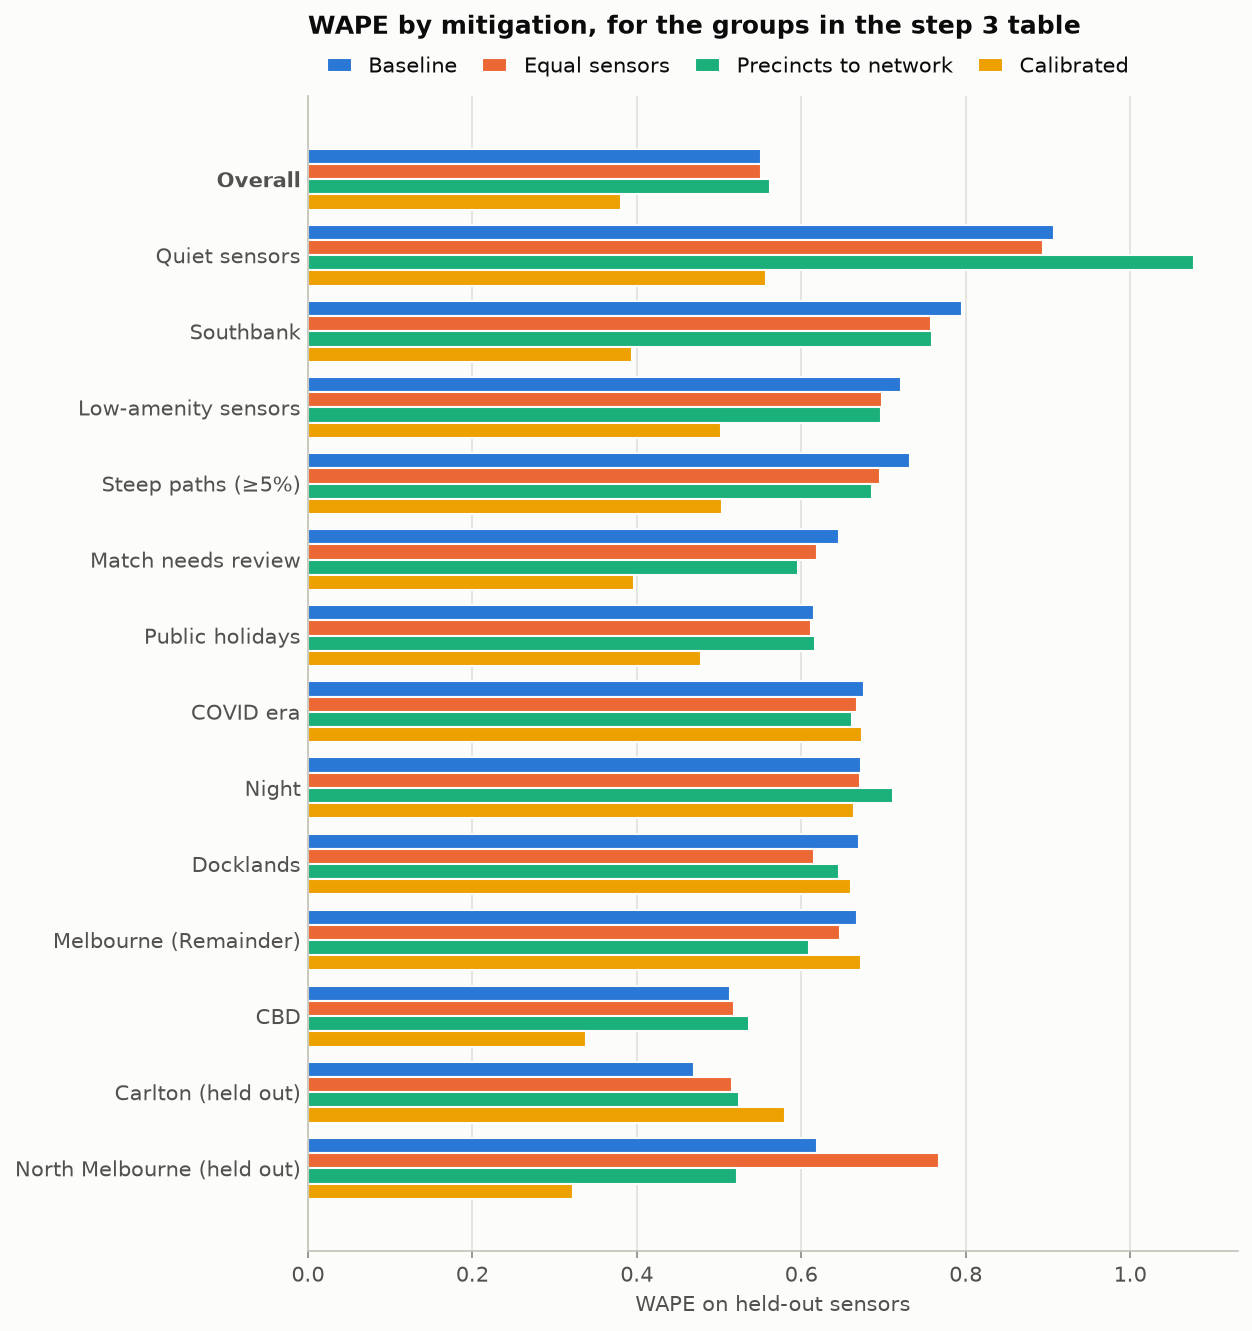
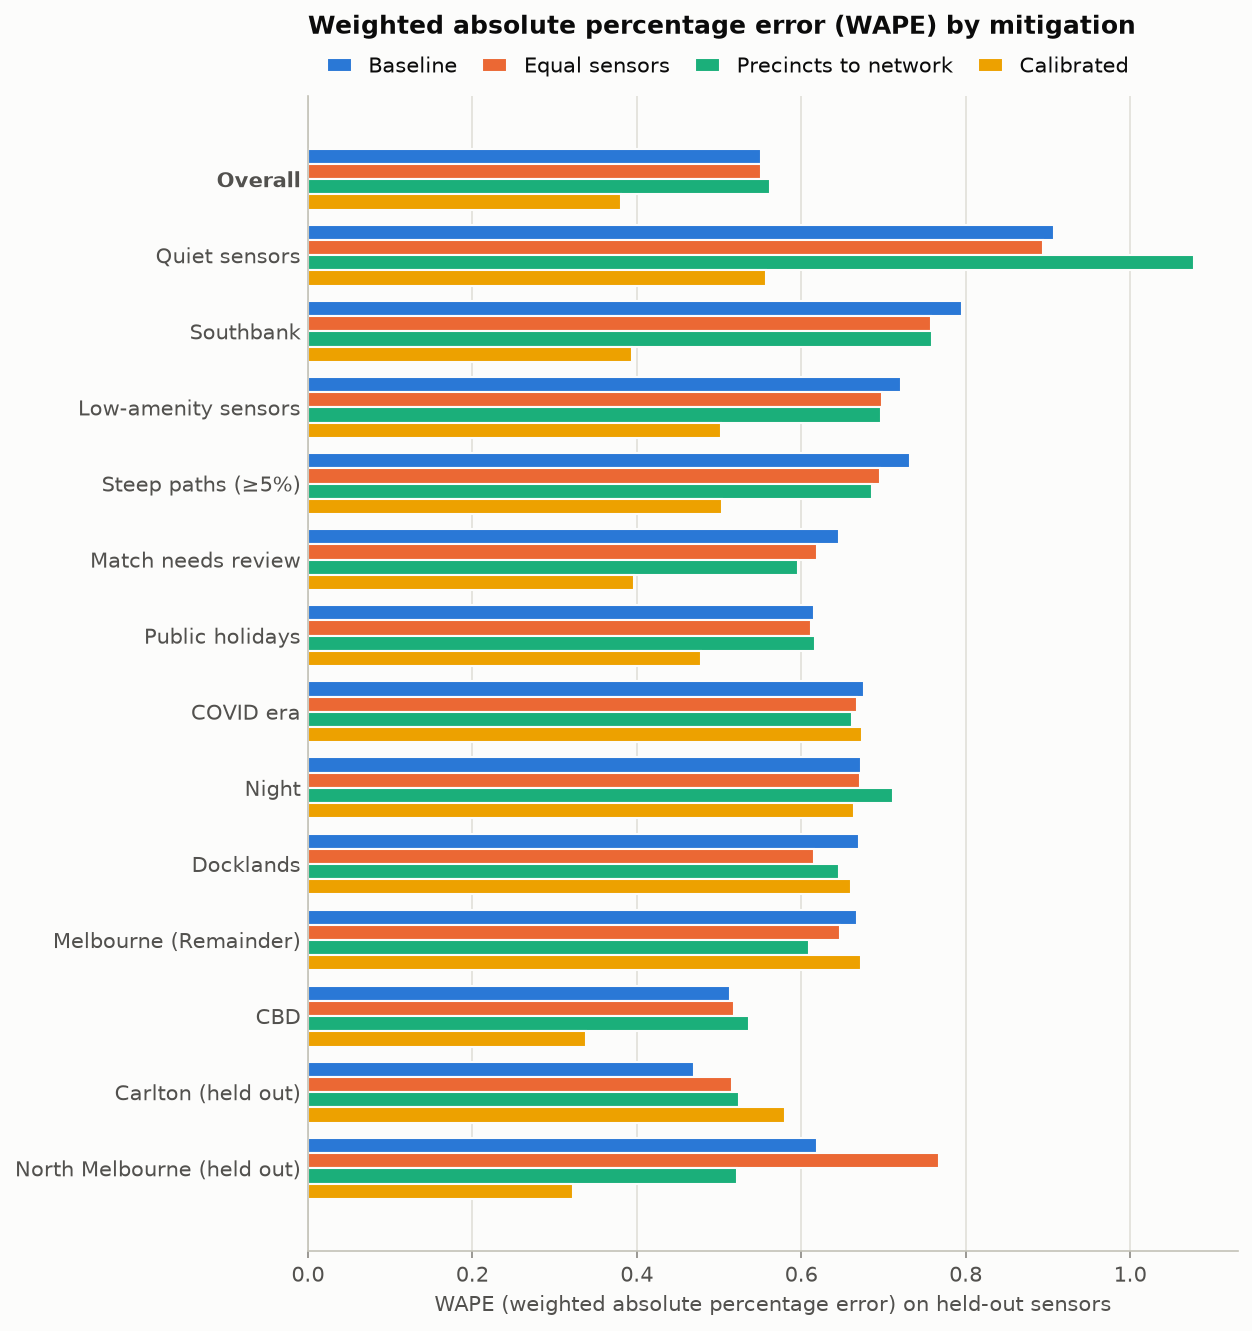
Marked empty heatmap cells as no data and removed name credits from the bias files

Changed region(s): [[0.2492, 0.0, 0.9034, 0.0308], [0.3427, 0.9549, 0.8722, 0.9857]]

diff --git a/src/bias/slices.py b/src/bias/slices.py
@@ -6,11 +6,6 @@ Settings are in configs/bias.yaml. The same slices feed the representation repor
 The data has no demographic attributes: Stoa holds no personal data (CLAUDE.md, core rule 6).
 Bias here means the data, or a model, serving some places, times and conditions worse than
 others, so the slices are places, times, weather, eras, data sources and sensor quality.
-
-The slice list follows Arshmehar's proposal and her notebook (04_bias_slicing.ipynb): precinct,
-sensor volume, time of day, weekday or weekend, weather, era, data source, slope and data
-quality, plus the held-out sensor lists and the sensor start period. Calendar flags, AFL
-days, the amenity tier, the match-review flag and the place references were added here.
 """
 
 from __future__ import annotations

diff --git a/src/bias/representation.py b/src/bias/representation.py
@@ -9,9 +9,7 @@ Writes to data/processed/bias/melbourne/:
 - sensor_slices.csv: one row per sensor with its slices and the values behind them;
 - slice_representation_meta.json.
 It needs no model: it shows which places, times and conditions the training data
-under-represents, before any error is measured. The count distribution per group (median,
-90th percentile, zero share), coverage by year and the cross-tables follow Arshmehar's notebook
-(04_bias_slicing.ipynb).
+under-represents, before any error is measured.
 
 Each group is compared with a reference where one exists:
 - time, calendar, weather, era and AFL slices: every hour of the study period, so a ratio

diff --git a/docs/bias/bias_slicing.md b/docs/bias/bias_slicing.md
@@ -13,30 +13,30 @@ Stoa holds no personal data (CLAUDE.md, core rule 6): the counts are anonymous t
 
 ## The slices
 
-Arshmehar proposed the slice list (her table, and her notebook `notebooks/04_bias_slicing.ipynb`), which also gave the held-out sensor lists, the sensor start period, the count-distribution columns, coverage by year and the cross-tables. The calendar, event, density and sensor-quality slices and the reference comparison were added on top. The **Proposed by** column says which is which. Settings are in `configs/bias.yaml`; the code is `src/bias/slices.py`.
+Settings are in `configs/bias.yaml`; the code is `src/bias/slices.py`.
 
-| Slice | Groups | Why it could hide bias | Built from | Proposed by |
-|---|---|---|---|---|
-| `precinct` | CLUE areas, with the three CBD areas merged | Sensors cluster in the CBD | Sensor location in the City's CLUE areas | Arshmehar (CLUE grouping added) |
-| `holdout_precinct` | UniMelb edge (42–44), Carlton (31, 37, 46, 50, 54), North Melbourne (70, 76, 85, 86, 87, 180), the rest | These are the within-Melbourne transfer test | The sensor lists in `docs/PROJECT_CONTEXT.md` 7.1, copied to `configs/bias.yaml`. They don't follow CLUE boundaries: Macaulay Rd (76, 85) is in the Kensington area. | Arshmehar |
-| `volume_tier` | Quiet, medium, busy thirds of sensors | Errors on busy sensors dominate absolute metrics | Each sensor's mean hourly count | Arshmehar |
-| `amenity_tier` | Low, medium, high thirds | A density proxy (CLAUDE.md asks for error by density) | OSM amenities within 400 m of the matched segment | Added |
-| `slope_band` | <1%, 1–3%, 3–5%, ≥5% | Steep paths are rare | `sensor_steepness.parquet` | Arshmehar |
-| `slope_source` | Footpath survey, DEM | The 2 DEM sensors use a different method | `place_source` | Arshmehar |
-| `sensor_start` | 2009–2013, 2014–2018, 2019 on | Early years rest on a handful of streets | Year of each sensor's first count | Arshmehar |
-| `time_of_day` | Night 0–6, morning peak 6–10, midday 10–16, evening peak 16–20, late evening 20–24 | Most pedestrians walk in the day, so night errors are easy to miss | `hour_local` | Arshmehar |
-| `day_type` | Weekday or weekend | Different walking patterns | `is_weekend` | Arshmehar |
-| `public_holiday`, `school_term`, `uni_teaching` | Each calendar flag | Different walking patterns | The calendar columns (`unknown` where a calendar doesn't cover the year) | Added |
-| `rain` | Dry (<0.1 mm), light, rain (≥1 mm) | Rainy hours are rare | `wx_precipitation` | Arshmehar |
-| `temperature` | Cold (<10 °C), mild, warm (25–30 °C), hot (≥30 °C) | Hot hours are rare | `wx_temperature_2m` | Arshmehar |
-| `era` | Pre-COVID, COVID (16 Mar 2020 to 21 Oct 2021), recovery, post Metro Tunnel (from 30 Nov 2025) | Crowds changed sharply | `date_local` | Arshmehar |
-| `afl_day` | Marvel, MCG, both, none | Event days are reported separately (CLAUDE.md, "Evaluation") | AFL Tables attendance | Added |
-| `source` | Archive, live, Wayback | Different collection | `source` | Arshmehar |
-| `missing_hours` | <5%, 5–20%, ≥20% of hours absent | Unreliable sensors can skew training and evaluation | Hours absent within each source's span for the sensor | Arshmehar |
-| `match_review` | Matched automatically, needs review | A sensor on the wrong segment gets the wrong place features | `needs_review` from the sensor match | Added |
-| `has_location` | Located, no location | The 18 retired sensors had no place features until their 2022 locations were added; every sensor is located now, and the slice stays as a check | `has_location` | Added |
+| Slice | Groups | Why it could hide bias | Built from |
+|---|---|---|---|
+| `precinct` | CLUE areas, with the three CBD areas merged | Sensors cluster in the CBD | Sensor location in the City's CLUE areas |
+| `holdout_precinct` | UniMelb edge (42–44), Carlton (31, 37, 46, 50, 54), North Melbourne (70, 76, 85, 86, 87, 180), the rest | These are the within-Melbourne transfer test | The sensor lists in `docs/PROJECT_CONTEXT.md` 7.1, copied to `configs/bias.yaml`. They don't follow CLUE boundaries: Macaulay Rd (76, 85) is in the Kensington area. |
+| `volume_tier` | Quiet, medium, busy thirds of sensors | Errors on busy sensors dominate absolute metrics | Each sensor's mean hourly count |
+| `amenity_tier` | Low, medium, high thirds | A density proxy (CLAUDE.md asks for error by density) | OSM amenities within 400 m of the matched segment |
+| `slope_band` | <1%, 1–3%, 3–5%, ≥5% | Steep paths are rare | `sensor_steepness.parquet` |
+| `slope_source` | Footpath survey, DEM | The 2 DEM sensors use a different method | `place_source` |
+| `sensor_start` | 2009–2013, 2014–2018, 2019 on | Early years rest on a handful of streets | Year of each sensor's first count |
+| `time_of_day` | Night 0–6, morning peak 6–10, midday 10–16, evening peak 16–20, late evening 20–24 | Most pedestrians walk in the day, so night errors are easy to miss | `hour_local` |
+| `day_type` | Weekday or weekend | Different walking patterns | `is_weekend` |
+| `public_holiday`, `school_term`, `uni_teaching` | Each calendar flag | Different walking patterns | The calendar columns (`unknown` where a calendar doesn't cover the year) |
+| `rain` | Dry (<0.1 mm), light, rain (≥1 mm) | Rainy hours are rare | `wx_precipitation` |
+| `temperature` | Cold (<10 °C), mild, warm (25–30 °C), hot (≥30 °C) | Hot hours are rare | `wx_temperature_2m` |
+| `era` | Pre-COVID, COVID (16 Mar 2020 to 21 Oct 2021), recovery, post Metro Tunnel (from 30 Nov 2025) | Crowds changed sharply | `date_local` |
+| `afl_day` | Marvel, MCG, both, none | Event days are reported separately (CLAUDE.md, "Evaluation") | AFL Tables attendance |
+| `source` | Archive, live, Wayback | Different collection | `source` |
+| `missing_hours` | <5%, 5–20%, ≥20% of hours absent | Unreliable sensors can skew training and evaluation | Hours absent within each source's span for the sensor |
+| `match_review` | Matched automatically, needs review | A sensor on the wrong segment gets the wrong place features | `needs_review` from the sensor match |
+| `has_location` | Located, no location | The 18 retired sensors had no place features until their 2022 locations were added; every sensor is located now, and the slice stays as a check | `has_location` |
 
-The cut-offs for rain, temperature and sensor tiers are agreed: Arshmehar's first notebook used wet above 0.2 mm, bands at 10/20/30 °C and the median count, and her notebooks now use the ones above.
+The cut-offs for rain, temperature and sensor tiers are agreed, and the notebooks use the same ones.
 
 Slices are for checking, never features. Precinct, sensor ID, season and month must not go into a model (CLAUDE.md core rule 9); they only group rows so results can be compared.
 
@@ -250,7 +250,7 @@ The weak groups aren't under-weighted: the features don't tell the model how bus
 
 ## Mitigation plan and outcome
 
-Arshmehar's plan, written before step 2, with what was found and done:
+The plan, written before step 2, with what was found and done:
 
 | If the model is worse on... | Planned mitigation | Outcome |
 |---|---|---|
@@ -260,7 +260,7 @@ Arshmehar's plan, written before step 2, with what was found and done:
 | Early years, short sensor histories | Weight by sensor-year, or a recent-window model | Not worse: sensors from 2019 on have WAPE 0.65, interval 0.51–0.87. No action. |
 | COVID and post Metro Tunnel | Keep the flags; report post Metro Tunnel separately | COVID is worse (0.68) and unfixed; post Metro Tunnel is not worse (0.53). Both reported separately. |
 | Rain, heat, DEM sensors | Report separately; weight up if much worse | Rain and heat not worse. The 2 DEM sensors are too few to judge. No action. |
-| Missing years | Bring the Wayback fill into the pipeline | Done (Arshmehar, PR #16): 1.18M rows for November 2022 to October 2024. Those hours are not worse (0.59). |
+| Missing years | Bring the Wayback fill into the pipeline | Done (PR #16): 1.18M rows for November 2022 to October 2024. Those hours are not worse (0.59). |
 | Sensors with no location | Locations for the 18 retired sensors from the October 2022 sensor table | Done: `sensor_match.load_sensor_locations` places them from the Wayback copy of that table, so all 118 sensors are in every slice and in the evaluation. |
 | Incomplete sensors and flagged matches | Report sensors missing 20% or more separately; hand-check the 52 flagged matches | Flagged matches (0.65) sit just under the line for worse, and calibration brings them to 0.40; the hand check still matters for accuracy. The 10 incomplete sensors are not worse (0.51, interval 0.34–1.37). |
 | Outage zeros | Already dropped | Dropped from training and scoring. |
